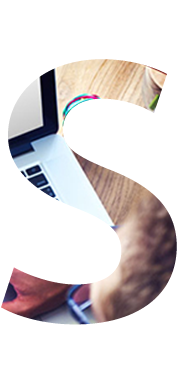
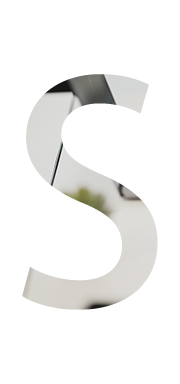
业务能力页面动画

diff --git a/src/views/Home.vue b/src/views/Home.vue
@@ -5,17 +5,17 @@
 
       <div class="img-area">
         <div class="part01 part luxy-el" data-horizontal="1" data-speed-x="-5">
-          <img class="part1" data-rellax-speed="3" src="../assets/img/index/A.png" alt="">
+          <img class="part1" data-rellax-speed="3" src="../assets/img/index/S.png" alt="">
         </div>
         <div class="part02 part">
-          <img class="part2" data-rellax-speed="-2" src="../assets/img/index/P.png" alt=""
+          <img class="part2" data-rellax-speed="-2" src="../assets/img/index/N.png" alt=""
             style="transform: translate3d(0px, 0px, 0px);">
         </div>
         <div class="part03 part">
-          <img class="part3" data-rellax-speed="4" src="../assets/img/index/I.png" alt="">
+          <img class="part3" data-rellax-speed="4" src="../assets/img/index/D.png" alt="">
         </div>
         <div class="part04 part">
-          <img class="part4" data-rellax-speed="2" src="../assets/img/index/S.png" alt="">
+          <img class="part4" data-rellax-speed="2" src="../assets/img/index/T.png" alt="">
         </div>
         <!-- <div class="part05 part">
         <img class="rellax" data-rellax-speed="-4" src="/assets/img/index/part05.png" alt="" style="transform: translate3d(0px, 0px, 0px);">
@@ -47,14 +47,9 @@
         <h2>
           <span>业务能力</span>
         </h2>
-        <p class="friend_text">每一成功案例，都凝聚了开发者的智慧与努力...每一成功案例，都凝聚了开发者的智慧与努力,每一成功案例，都凝聚了开发者的智慧与努力,
-          每一成功案例，都凝聚了开发者的智慧与努力,
-          每一成功案例，都凝聚了开发者的智慧与努力,每一成功案例，都凝聚了开发者的智慧与努力,
+        <p class="friend_text">
+          每一项业务能力，都展示了我们的走过的道路
         </p>
-        <p class="about_big_font friend_text">
-          这个是关于我们的详细的介绍
-        </p>
-
         <ul class="list_abillity">
           <li class="recruit">
             <a href="./ability/ability.html">
@@ -93,9 +88,7 @@
         <h2>
           <span>项目案例</span>
         </h2>
-        <div class="example_intro">每一成功案例，都凝聚了开发者的智慧与努力...每一成功案例，都凝聚了开发者的智慧与努力,每一成功案例，都凝聚了开发者的智慧与努力,
-          每一成功案例，都凝聚了开发者的智慧与努力,
-          每一成功案例，都凝聚了开发者的智慧与努力,每一成功案例，都凝聚了开发者的智慧与努力,
+        <div class="example_intro">每一款产品，都汇聚了公司成员的辛勤与汗水，每一成功案例，都凝聚了开发者的智慧与努力。
         </div>
 
 
@@ -557,6 +550,7 @@ body {
 
 .content-area {
   position: relative;
+  margin-top: 100px;
 }
 
 .example .content-area .example_viewmore {
@@ -755,6 +749,7 @@ ul {
   display: flex;
   flex-wrap: wrap;
   justify-content: space-between;
+  margin-top: 300px;
 }
 
 .list_abillity li {
@@ -1000,6 +995,7 @@ ul {
 }
 
 .friend_text {
+position: absolute;
   width: 400px;
   margin-left: -20px;
   margin-top: 100px
@@ -1075,6 +1071,7 @@ ul {
 
 .example_intro {
   width: 500px;
+  position: absolute;
 }
 
 @keyframes see {

diff --git a/src/views/Ability.vue b/src/views/Ability.vue
@@ -139,24 +139,17 @@ export default {
   mounted() {
     window.addEventListener('scroll', () => {
       console.log(window.scrollY);
-      // var tuwenImgs = document.querySelectorAll('.tuwen_img')
       if (window.scrollY >= 1323) {
-        // tuwenImgs[0].style.cssText = 'animation: appear 1s forwards;'
         this.firstShow = true
       }
       if (window.scrollY >= 1700) {
         console.log(window.scrollY);
-        // tuwenImgs[1].style.cssText = 'animation: appear 1s forwards;'
         this.secondShow = true
       }
       if (window.scrollY >= 2300) {
-        // console.log(window.scrollY);
-        // tuwenImgs[2].style.cssText = 'animation: appear 1s forwards;'
         this.thirdShow = true
       }
       if (window.scrollY >= 2700) {
-        // console.log(window.scrollY);
-        // tuwenImgs[3].style.cssText = 'animation: appear 1s forwards;'
         this.fourShow = true
       }
     })
@@ -175,7 +168,6 @@ body {
 }
 
 section .section-inner {
-  /* position: relative; */
   width: 100%;
   margin: 0 auto;
   overflow: hidden;

diff --git a/src/router/index.js b/src/router/index.js
@@ -52,8 +52,10 @@ const routes = [
     },
 ]
 
+
 const router = new vueRouter({
     routes
 })
 
 export default router
+router.afterEach(() => {window.scrollTo(1000,0)})
